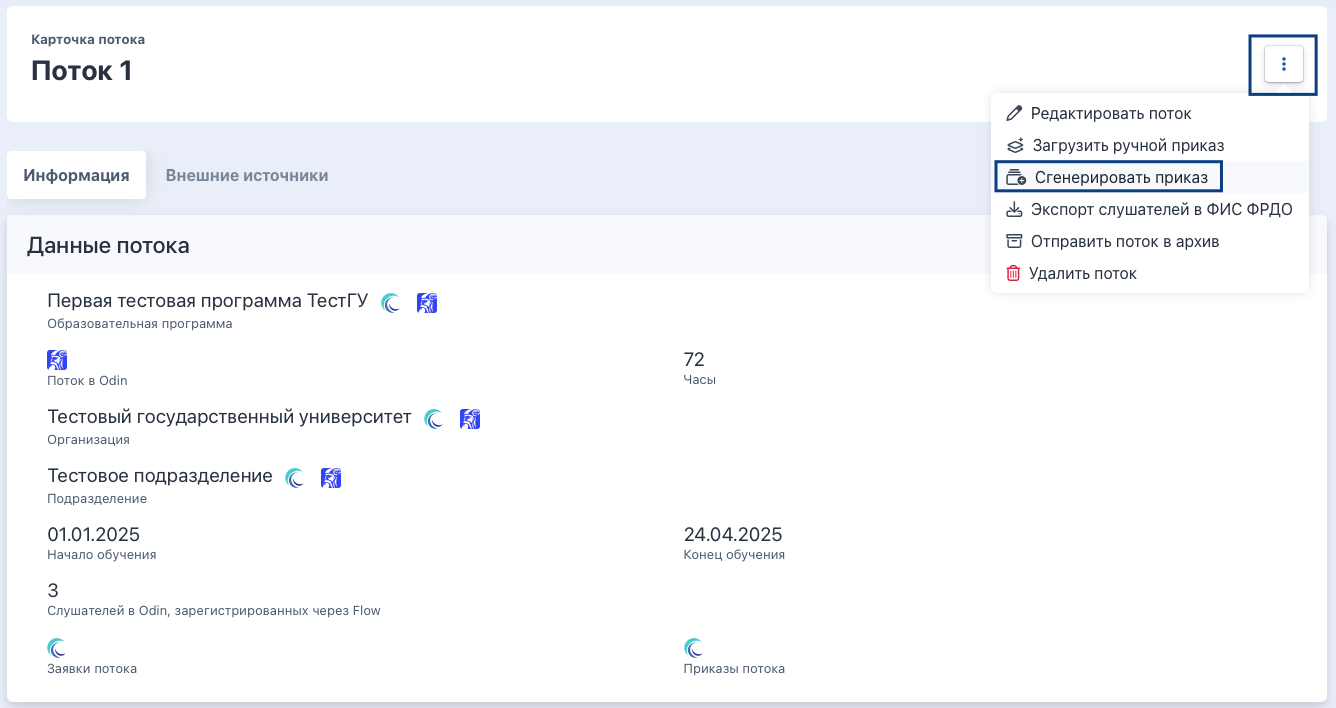
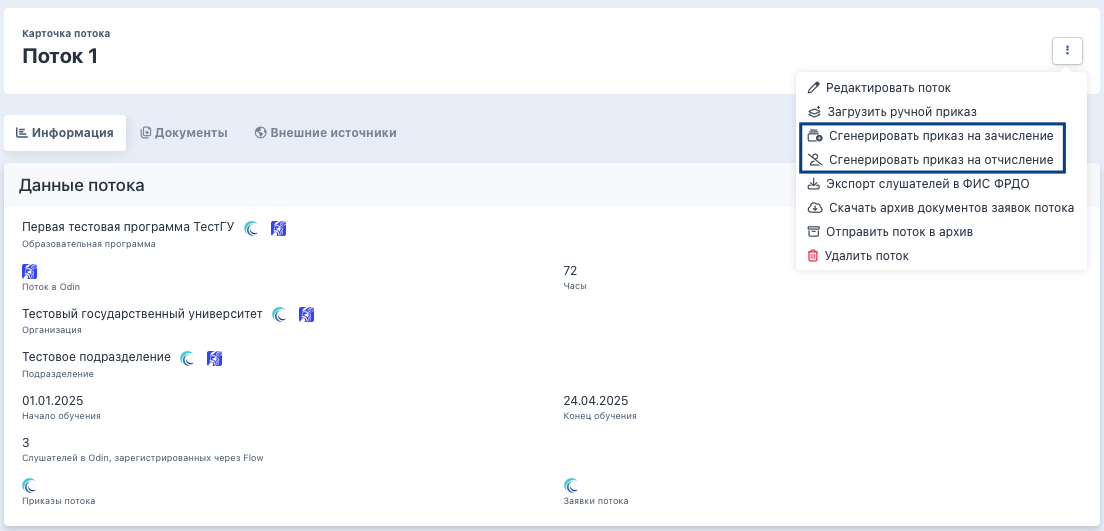
Update 3 files
- obuchenie/prikaz/avtomaticheskii-vypusk.md
   - obuchenie/prikaz/avtomaticheskii-vypusk-2.png
 - obuchenie/prikaz/avtomaticheskii-vypusk-3.png

diff --git a/obuchenie/prikaz/avtomaticheskii-vypusk.md b/obuchenie/prikaz/avtomaticheskii-vypusk.md
@@ -52,17 +52,8 @@ order: 1
 
 ![](./avtomaticheskii-vypusk.png){width=400px height=178px}
 
-Кнопка «Сгенерировать приказ» (полуавтоматический) доступна на странице потока. 
+Кнопки для генерации полуавтоматических приказов на зачисление/отчисление доступны в троеточии в карточке потока.
 
-![](./avtomaticheskii-vypusk-2.png){width=1336px height=708px}
-
-По нажатию на "Сгенерировать приказ" открывается модальное окно:
-
-![](./avtomaticheskii-vypusk-3.png){width=791px height=473px}
-
-Конкретно для этой кнопки нет условия попадания заявки в приказ только при загруженных ДЗС.\
-То есть  в списке заявок будут отображены:\
-\- только заявки по выбранной группе шаблонов.\
-\- даже те заявки, у которых нет загруженных ДЗС ( с указанием загружены ДЗС или нет).
+![](./avtomaticheskii-vypusk-2.png){width=1104px height=531px}
 
 
